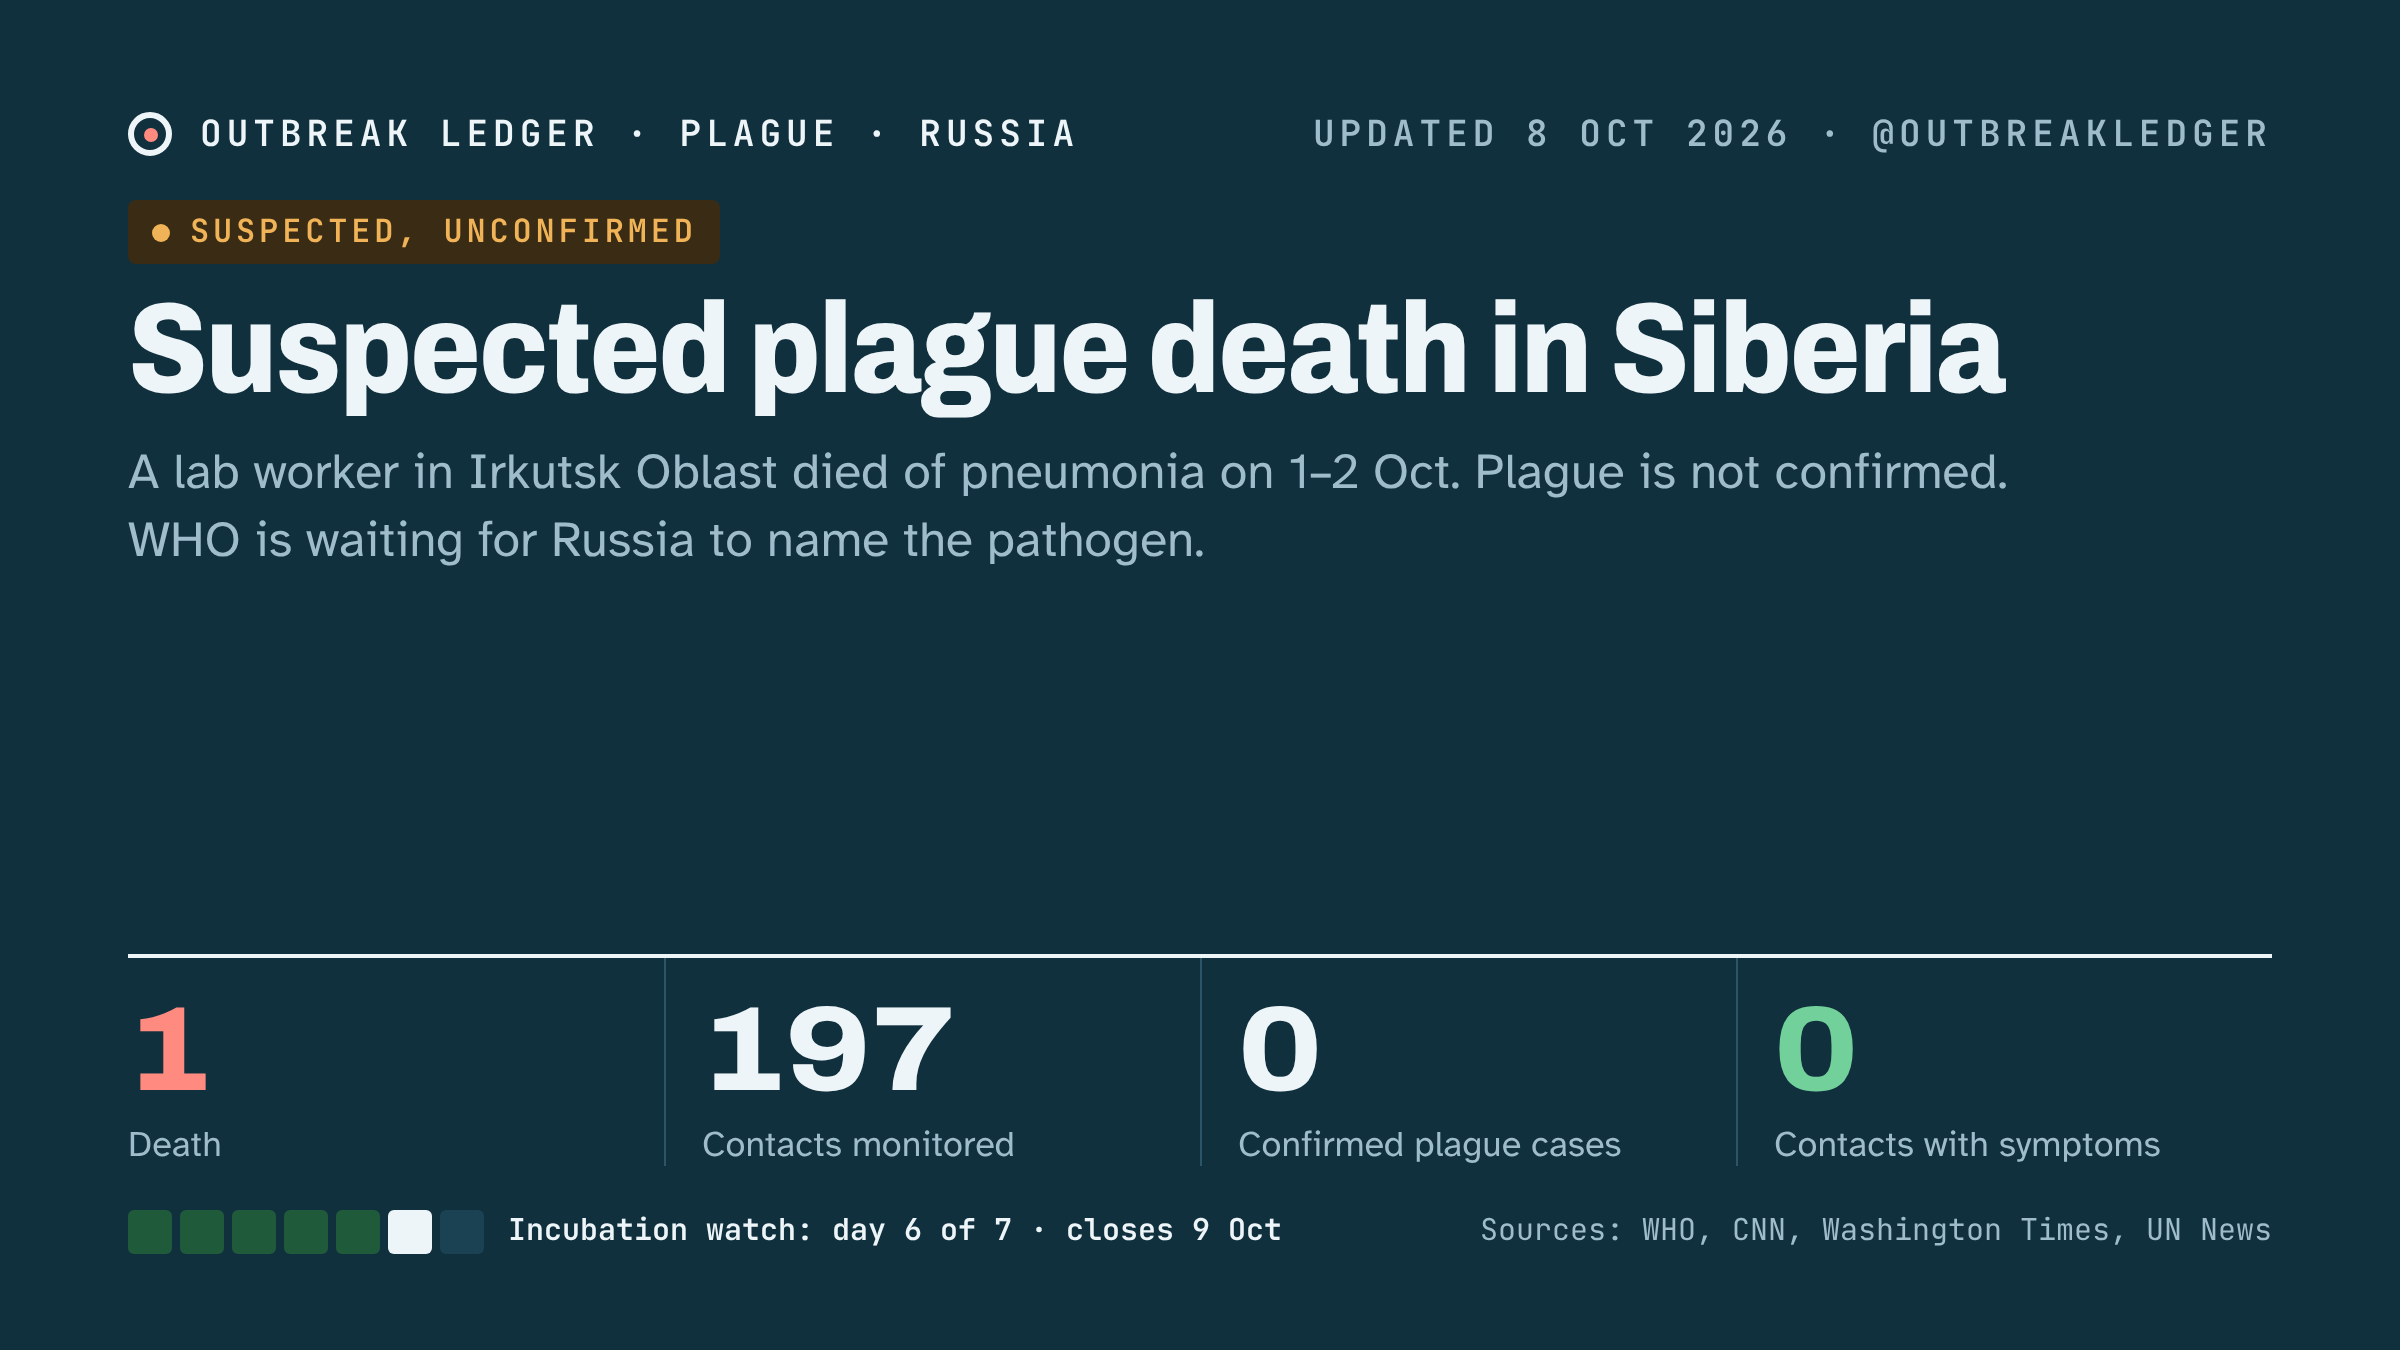
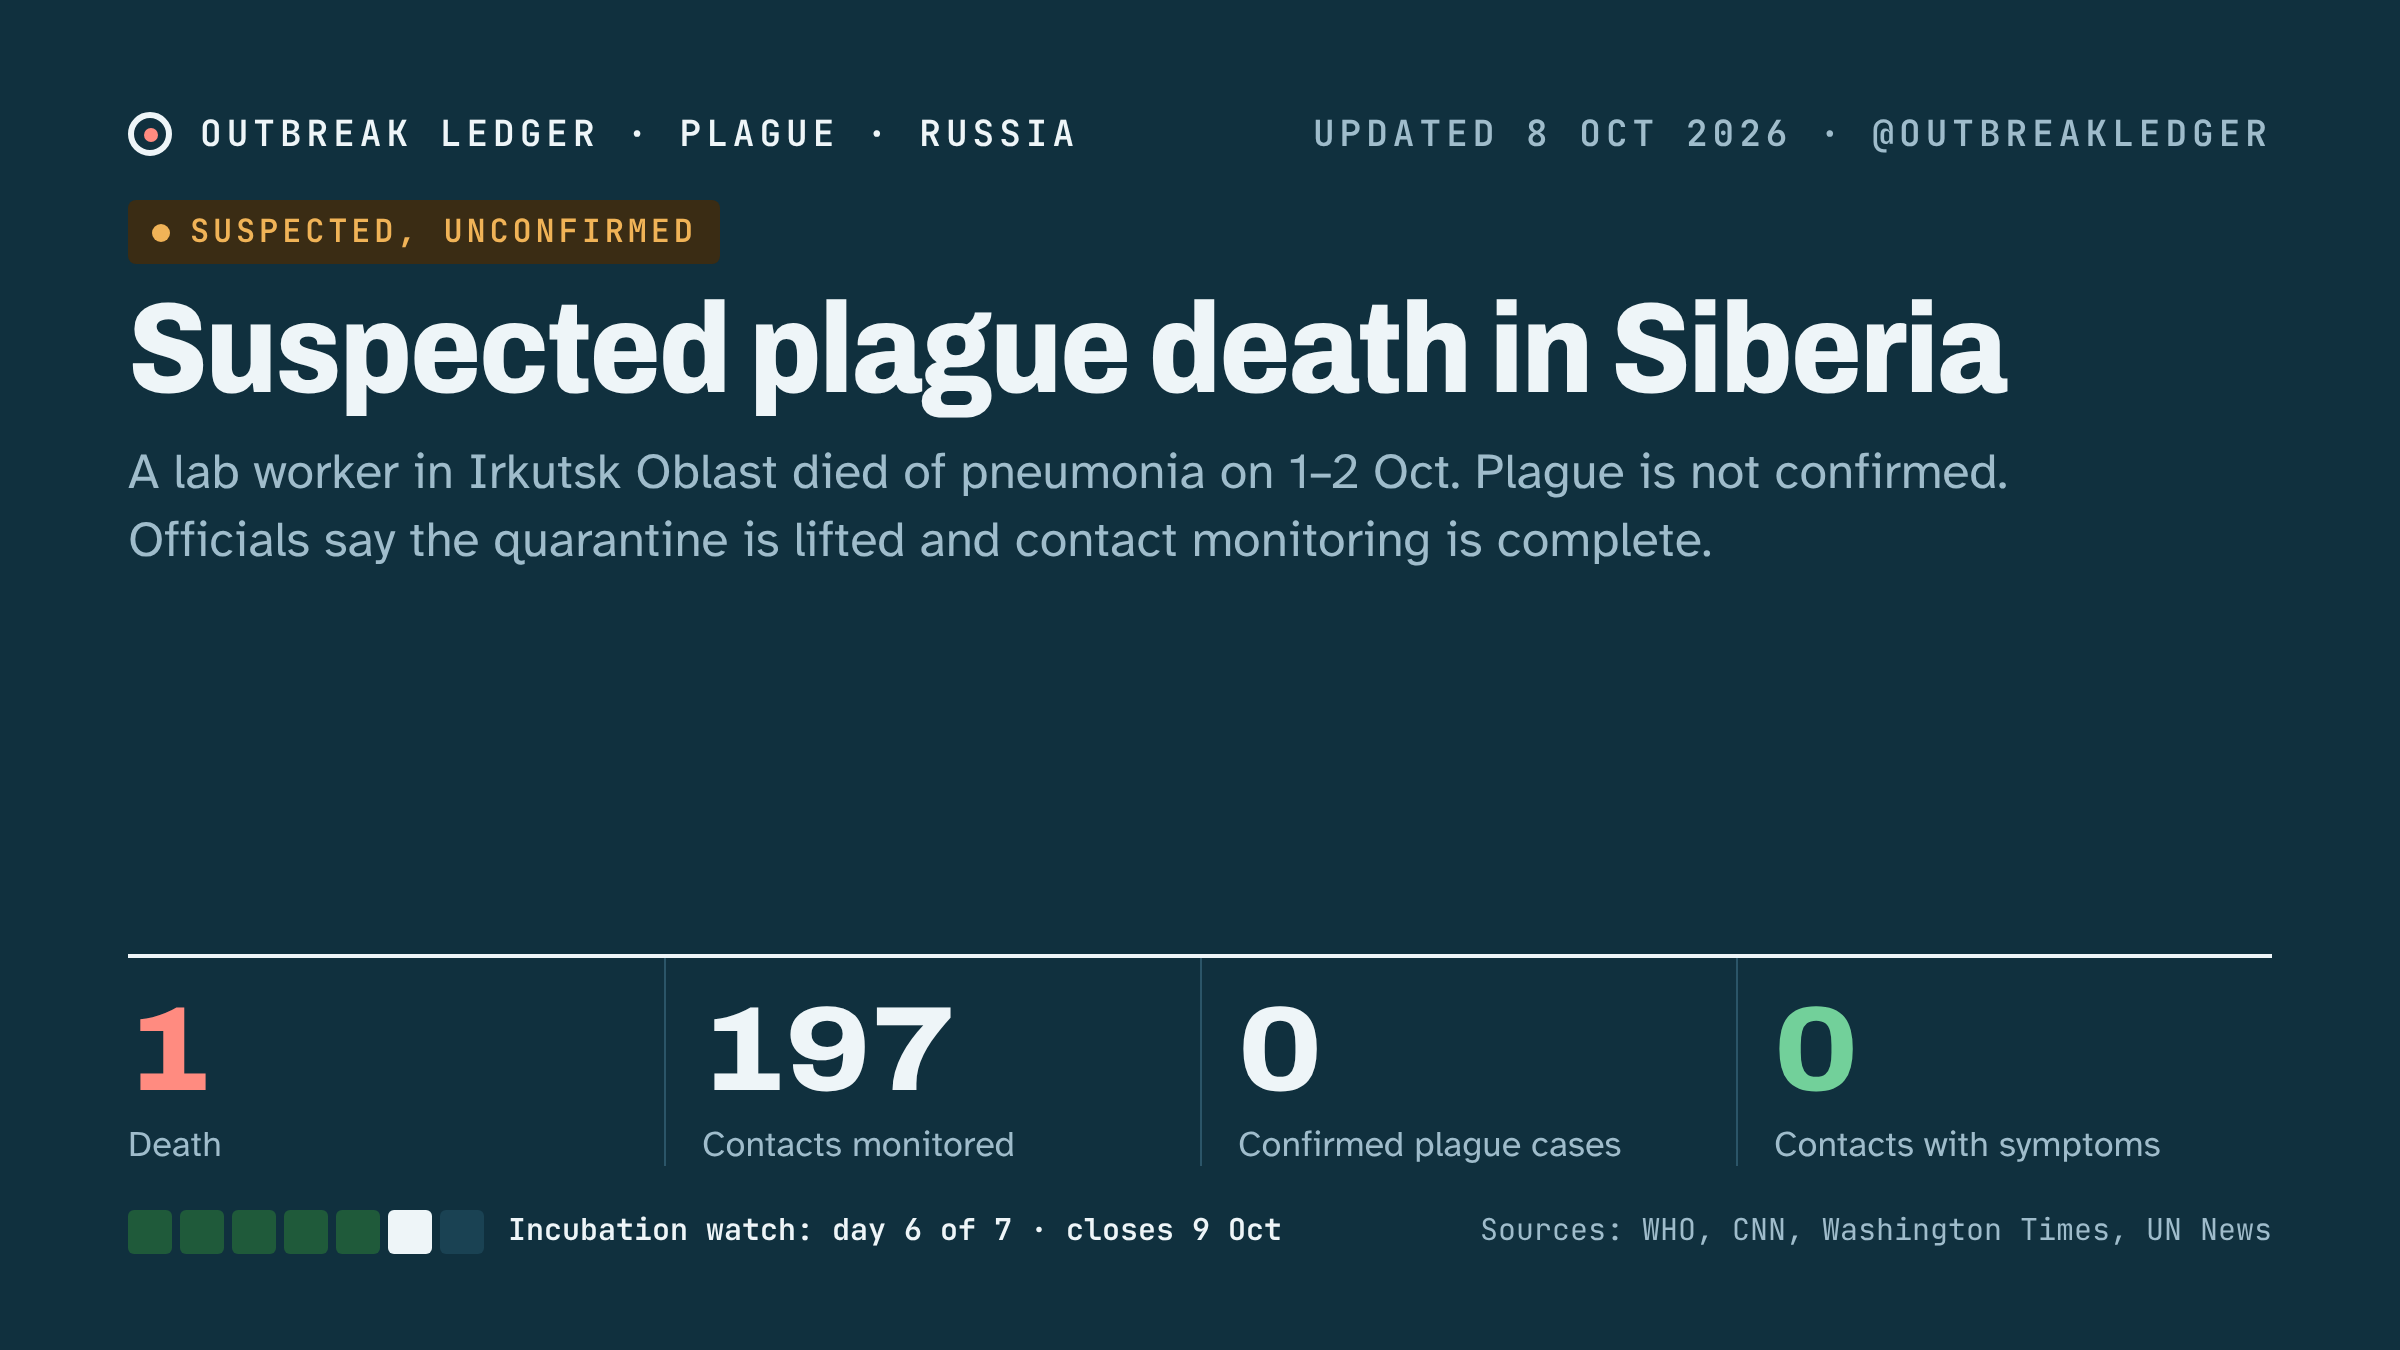
Plague: governor says Shelekhov quarantine lifted, contact monitoring complete
Claude-Session: https://claude.ai/code/session_01DjK934MGj4uKY77RiACNyU

diff --git a/site/plague/share/latest-post.md b/site/plague/share/latest-post.md
@@ -1,4 +1,4 @@
-Irkutsk update: the Kremlin says most media reports on the lab worker's death are false. Reports of a second employee with pneumonia are unconfirmed by officials. WHO is still awaiting Russia's answers on the pathogen. Plague is not confirmed.
+Irkutsk update: the regional governor says the Shelekhov hospital quarantine is lifted and monitoring of all contacts is complete. Officials say nearly 5,000 tests found no dangerous pathogens. Plague is not confirmed; WHO still awaits the pathogen.
 https://nhlebe1.github.io/ai-scheduler-platform/plague/
 
-Sources: Al Jazeera and Euronews (7–8 Oct), CNN (7 Oct, WHO statement).
+Sources: IrCity and EANews (8 Oct, governor and Rospotrebnadzor statements), CNN (7 Oct, WHO).
